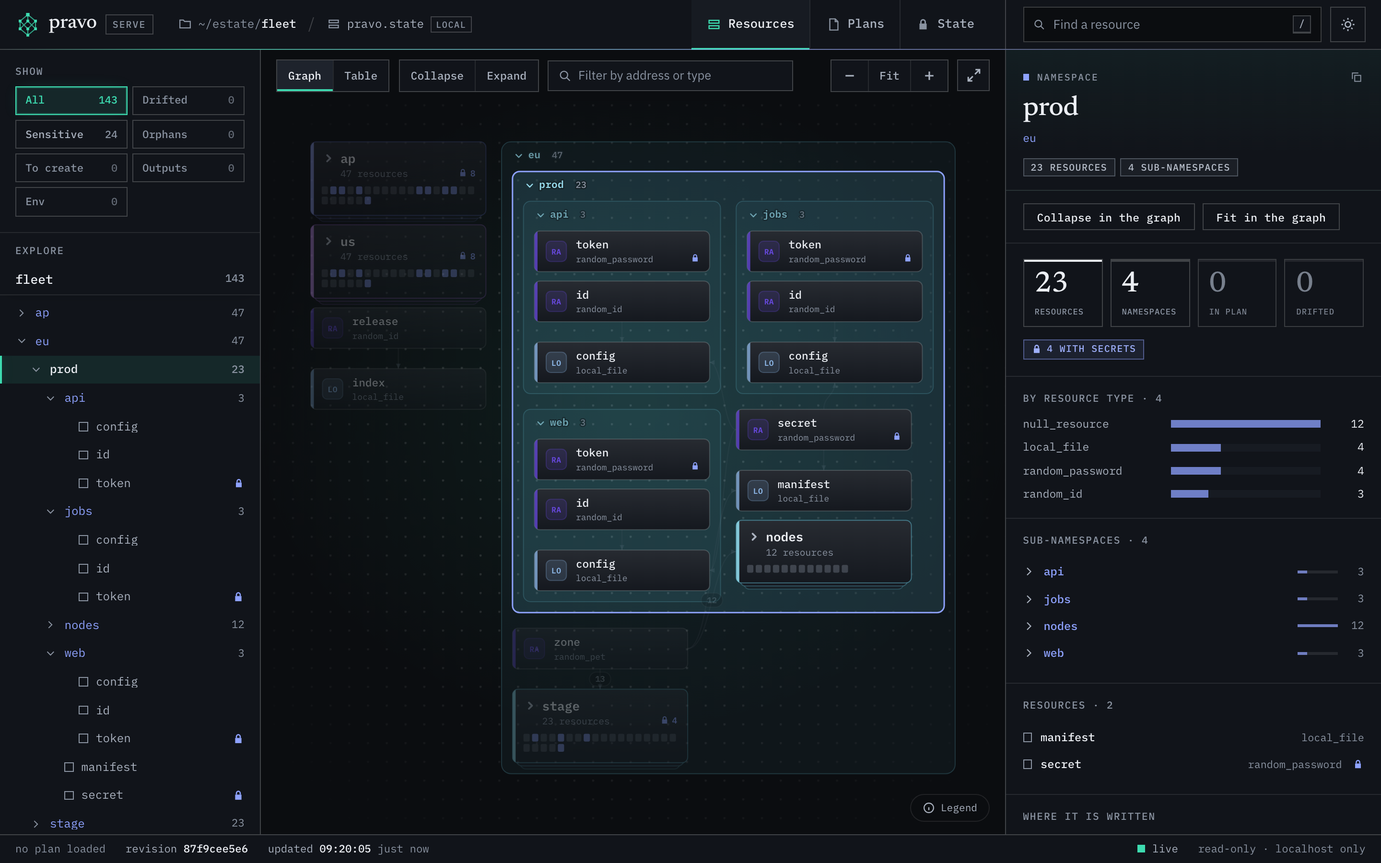
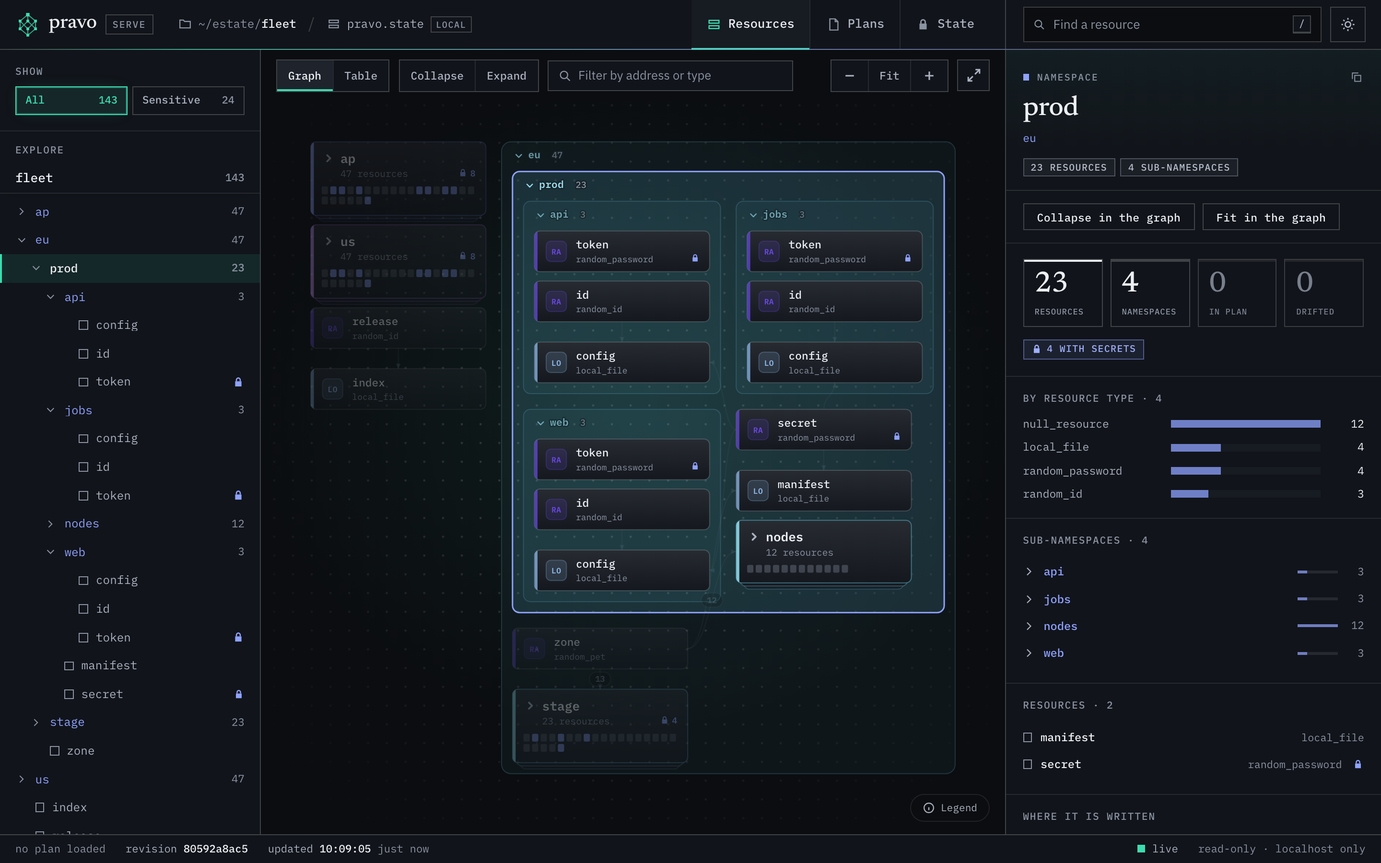
viewer: mark data sources and ephemeral resources, and filter by kind
A data source has a round tile in the graph and a round mark in the sidebar, the search and the table; an ephemeral resource has a dashed tile and a dashed mark. The legend names them when the graph has one. The Show chips gain Resources, Data sources and Ephemeral (filter=resources, data, ephemeral); Resources shows only beside another kind.

Also: the chips that match nothing are hidden, the Sensitive chip counts outputs too, the legend lists only the marks the graph shows, and the disc of a plan author opens that plan on the Plans page. The documentation and the screenshots follow.

diff --git a/internal/serve/web/assets/graph.js b/internal/serve/web/assets/graph.js
@@ -547,7 +547,7 @@ export class GraphView {
     inn.append(s('rect', { class: 'box', width: W, height: H, rx: 7 }));
     inn.append(s('rect', { class: 'bar', width: 4, height: H, 'clip-path': this.clip(W, H, 7) }));
     const tile = s('g', { class: 'tile', transform: `translate(15 ${(H - 26) / 2})` });
-    tile.append(s('rect', { class: 'tb', width: 26, height: 26, rx: 6 }), isEnv(n) ? glyph('env', 5, 5, 16, 'mk mk-env') : s('text', { class: 'tm', x: 13, y: 17.2 }, pv.mono));
+    tile.append(s('rect', { class: 'tb', width: 26, height: 26, rx: n.mode === 'data' ? 13 : 6 }), isEnv(n) ? glyph('env', 5, 5, 16, 'mk mk-env') : s('text', { class: 'tm', x: 13, y: 17.2 }, pv.mono));
     inn.append(tile);
     const nameRoom = W - 52 - (badge ? 34 : 14);
     inn.append(s('text', { class: 'nm', x: 53, y: 22.5 }, trunc(n.name, chars(nameRoom, 14))));
@@ -573,7 +573,7 @@ export class GraphView {
     const g = s('g', { class: 'aus' });
     const SHOWN = 3, R = 7.5, PITCH = 11;
     list.slice(0, SHOWN).forEach((p, i) => {
-      const b = s('g', { class: 'au au' + hueOf(p.author), transform: `translate(${W - 15 - i * PITCH} 0)` });
+      const b = s('g', { class: 'au au' + hueOf(p.author), 'data-plan': p.id, transform: `translate(${W - 15 - i * PITCH} 0)` });
       b.append(s('circle', { class: 'aur', r: R + 1.6 }), s('circle', { class: 'aub', r: R }), s('text', { y: 2.7 }, initials(p.author).slice(0, 2)));
       g.append(b);
     });
@@ -956,7 +956,7 @@ export class GraphView {
     if (n.overlap) chips.push(h('span', { class: 'gchip ovl' }, 'overlap'));
     if (chips.length) out.push(h('div', { class: 'gtip-row' }, chips));
     const authors = authorsOf(n, this.ctx);
-    if (authors.length) out.push(h('div', { class: 'gtip-plans' }, authors.map((p) => h('div', null, h('span', { class: 'au au' + hueOf(p.author) }, initials(p.author)), ` ${p.author} · ${p.id}`))));
+    if (authors.length) out.push(h('div', { class: 'gtip-plans' }, authors.map((p) => h('div', null, h('span', { class: 'au au' + hueOf(p.author) }, initials(p.author)), ` ${p.author} · ${p.id}`)), h('div', { class: 'dim' }, 'Click a disc to open its plan')));
     out.push(h('div', { class: 'gtip-meta' }, isO ? `reads ${n.deps.length} · read by ${n.used.length}` : `${n.deps.length} ${n.deps.length === 1 ? 'dependency' : 'dependencies'} · ${n.used.length} ${n.used.length === 1 ? 'dependent' : 'dependents'}`));
     return out;
   }
@@ -965,7 +965,7 @@ export class GraphView {
   tipPlans(out, pin) {
     if (!pin.list.length) return;
     out.push(h('div', { class: 'gtip-plans' }, pin.list.map((p) => h('div', null, h('span', { class: 'au au' + hueOf(p.author) }, initials(p.author)), ` ${p.author} \u00b7 ${p.id}`)),
-      h('div', { class: 'dim' }, `${plural(pin.resources, 'resource')} changed by open plans${pin.overlap ? ', two of them by more than one' : ''}`)));
+      h('div', { class: 'dim' }, `${plural(pin.resources, 'resource')} changed by open plans${pin.overlap ? ', two of them by more than one' : ''}`), h('div', { class: 'dim' }, 'Click a disc to open its plan')));
   }
 
   tipNamespace(ns, open) {
@@ -1248,6 +1248,9 @@ export class GraphView {
 
   click(target, ev) {
     if (performance.now() < this.guardUntil) return;
+    // a disc of an author is a way into the plan that it stands for
+    const disc = target.closest && target.closest('[data-plan]');
+    if (disc) { this.cb.onPlan(disc.dataset.plan); return; }
     const act = target.closest && target.closest('[data-act]');
     const el = target.closest && target.closest('[data-id]');
     if (act && el) {

diff --git a/internal/serve/web/assets/app.js b/internal/serve/web/assets/app.js
@@ -840,6 +840,13 @@ function setView(v) {
   announce(v === 'table' ? 'Resources, table view' : v === 'access' ? 'State' : v === 'plans' ? 'Plans' : 'Resources, graph view');
 }
 
+// openPlan goes to the Plans page with the detail of a plan open under its row.
+function openPlan(id) {
+  if (!S.plans.some((p) => p.id === id)) { toast(`${id} is not stored any more`, 'warn', 6000); return; }
+  plansList.reveal(id);
+  setView('plans');
+}
+
 function renderAccess() {
   accessView.render({ access: S.access, project: S.model && S.model.graph ? S.model.graph.project : null });
 }
@@ -983,14 +990,19 @@ function renderLegend() {
   const item = (...k) => h('span', { class: 'lg' }, ...k);
   const sel = (...k) => h('span', { class: 'lg lg-sel' }, ...k); // the keys of the edges show once something is selected
   if (m.hasPlan) {
-    el.append(item(sq('create'), 'create'), item(sq('update'), 'update'), item(sq('replace'), 'replace'), item(sq('delete'), 'delete'), item(h('i', { class: 'sq skip' }), 'not read'));
+    // only the actions that the plan has on a resource of the graph
+    const acts = new Set(m.list.map((n) => n.action));
+    for (const a of ['create', 'update', 'replace', 'delete']) if (acts.has(a)) el.append(item(sq(a), a));
+    if (m.list.some((n) => !n.action && n.mode !== 'output')) el.append(item(h('i', { class: 'sq skip' }), 'not read'));
   }
   el.append(
     sel(h('i', { class: 'ln up' }), 'depends on'), sel(h('i', { class: 'ln down' }), 'used by'),
     ...(m.nout ? [item(h('span', { class: 'i i-output key' }), 'output')] : []),
     ...(m.list.some(isEnv) ? [item(h('span', { class: 'i i-env key' }), 'environment variable')] : []),
-    item(h('span', { class: 'i i-lock key' }), 'sensitive'),
-    item(h('span', { class: 'i i-drift warn' }), 'drifted'));
+    ...(m.list.some((n) => n.mode === 'data') ? [item(h('i', { class: 'sq k-data' }), 'data source')] : []),
+    ...(m.list.some((n) => n.mode === 'ephemeral') ? [item(h('i', { class: 'sq k-ephemeral' }), 'ephemeral')] : []),
+    ...(m.list.some((n) => n.sensitive > 0) ? [item(h('span', { class: 'i i-lock key' }), 'sensitive')] : []),
+    ...(m.list.some((n) => n.drifted) ? [item(h('span', { class: 'i i-drift warn' }), 'drifted')] : []));
   // the badges of the authors of open plans, and the ring of a resource that two of them change
   if (m.list.some((n) => (n.plans || []).length)) el.append(item(avatar('author', 'tiny'), 'plan author'));
   if (m.list.some((n) => n.overlap)) el.append(item(h('i', { class: 'ringkey' }), 'overlap'));
@@ -1291,6 +1303,7 @@ function wire() {
     onSelectNamespace: (p) => selectNamespace(p),
     onToggleNamespace: toggleNamespace,
     onOpenNamespace: openNamespace,
+    onPlan: openPlan,
     onCluster: clusterAction,
     onClear: clearSelection,
     onView: () => minimapDraw(),

diff --git a/internal/serve/web/assets/table.js b/internal/serve/web/assets/table.js
@@ -1,7 +1,7 @@
 // The table view: a dense, searchable, sortable table of every node, with the same filters as the rail.
 // Only the rows in view are in the document, so an estate of thousands of resources scrolls freely.
 
-import { h, clear, relTime, stamp, actionOf, store } from './util.js';
+import { h, clear, relTime, stamp, actionOf, store, kindMark } from './util.js';
 import { FILTERS, natural, isOut, isEnv } from './model.js';
 import { providerOf, pvClass } from './provider.js';
 
@@ -128,10 +128,10 @@ export class TableView {
     // a plan lists the value of every output and does not say which it changes: an output is neither planned nor "not read"
     const act = a ? h('span', { class: 'act' }, h('span', { class: 'sq ' + a.cls }), a.label) : (this.s.model.hasPlan && !isOut(n) ? h('span', { class: 'dim' }, 'not read') : '');
     return h('div', { class: 'tv-row' + (on ? ' sel' : ''), role: 'row', 'aria-rowindex': String(i + 2), 'aria-selected': on ? 'true' : 'false', data: { addr: n.addr } },
-      h('div', { class: 'c-addr' + (isOut(n) ? ' out' : ''), role: 'gridcell', title: n.addr }, isOut(n) ? h('span', { class: 'i i-output omark', 'aria-hidden': 'true' }) : isEnv(n) ? h('span', { class: 'i i-env omark', 'aria-hidden': 'true' }) : null, n.addr.length > n.name.length && n.addr.endsWith(n.name) ? [h('span', { class: 'pre' }, n.addr.slice(0, n.addr.length - n.name.length)), h('b', null, n.name)] : n.addr),
+      h('div', { class: 'c-addr' + (isOut(n) ? ' out' : ''), role: 'gridcell', title: n.addr }, isOut(n) ? h('span', { class: 'i i-output omark', 'aria-hidden': 'true' }) : isEnv(n) ? h('span', { class: 'i i-env omark', 'aria-hidden': 'true' }) : kindMark(n), n.addr.length > n.name.length && n.addr.endsWith(n.name) ? [h('span', { class: 'pre' }, n.addr.slice(0, n.addr.length - n.name.length)), h('b', null, n.name)] : n.addr),
       h('div', { class: 'c-type', role: 'gridcell', title: n.type }, n.type),
       h('div', { class: 'c-prov', role: 'gridcell', title: n.provider ? 'The provider instance: ' + n.provider : '' }, n.provider ? [h('span', { class: 'pvdot ' + pvClass(providerOf(n.type, n.provider)), 'aria-hidden': 'true' }), n.provider] : h('span', { class: 'dim' }, '—')),
-      h('div', { class: 'c-mode', role: 'gridcell' }, n.mode),
+      h('div', { class: 'c-mode' + (n.mode === 'managed' ? ' plain' : ''), role: 'gridcell' }, n.mode),
       h('div', { class: 'c-status', role: 'gridcell' }, stat),
       h('div', { class: 'c-action', role: 'gridcell' }, act),
       h('div', { class: 'c-rev num', role: 'gridcell' }, n.revision ? String(n.revision) : '—'),

diff --git a/internal/serve/web/assets/rail.js b/internal/serve/web/assets/rail.js
@@ -12,9 +12,12 @@ const ANIMATE_MAX = 40;
 
 export const CHIPS = [
   { key: null, label: 'All', count: 'all', hint: 'Every resource' },
+  { key: 'resources', label: 'Resources', count: 'resources', hint: 'The managed resources, without the data sources and the ephemeral ones', kinds: true },
+  { key: 'data', label: 'Data sources', count: 'data', hint: 'Data sources: values read, not created' },
+  { key: 'ephemeral', label: 'Ephemeral', count: 'ephemeral', hint: 'Ephemeral resources: opened for a run and never recorded' },
   { key: 'plan', label: 'In plan', count: 'plan', hint: 'Resources the plan that is laid over them changes', plan: true },
   { key: 'drifted', label: 'Drifted', count: 'drifted', hint: 'Resources that differ from the real object, or are gone' },
-  { key: 'sensitive', label: 'Sensitive', count: 'sensitive', hint: 'Resources with values that are withheld' },
+  { key: 'sensitive', label: 'Sensitive', count: 'sensitive', hint: 'Resources and outputs with values that are withheld' },
   { key: 'orphans', label: 'Orphans', count: 'orphans', hint: 'In the state, no longer declared' },
   { key: 'declared', label: 'To create', count: 'declared', hint: 'In the specification and not in the state: nothing has created them yet' },
   { key: 'outputs', label: 'Outputs', count: 'outputs', hint: 'The values the root publishes' },
@@ -72,7 +75,10 @@ export class Rail {
       const { b, em } = this.chips.get(c.key || '');
       const on = (s.filter || null) === c.key;
       b.setAttribute('aria-pressed', on ? 'true' : 'false');
-      b.hidden = !!c.plan && !model.hasPlan; // a filter of the plan has no use while none is laid over the resources
+      // a filter of the plan has no use while none is laid over the resources, and one that matches nothing is not offered,
+      // unless it is the one that is on or the records are sealed and cannot say
+      // Resources is there only beside another kind: alone it would be All
+      b.hidden = (!!c.plan && !model.hasPlan) || (!!c.kinds && !on && model.counts.data + model.counts.ephemeral === 0) || (n === 0 && !!c.key && !on && !notCounted(model.counts, c.count));
       b.classList.toggle('zero', n === 0 && !!c.key);
       if (notCounted(model.counts, c.count)) {
         // the records are sealed and say nothing of this: a dash, not a zero

diff --git a/internal/serve/web/assets/model.js b/internal/serve/web/assets/model.js
@@ -22,11 +22,14 @@ export const isChange = (a) => CHANGING.has(a);
 // n counts the resources of a namespace, out its outputs
 const zero = () => ({ n: 0, out: 0, plan: 0, create: 0, update: 0, replace: 0, delete: 0, read: 0, drifted: 0, gone: 0, sensitive: 0, locked: 0, orphan: 0, spec: 0 });
 
-// FILTERS match a node; the key is the value of filter= in the fragment. All but outputs match resources only.
+// FILTERS match a node; the key is the value of filter= in the fragment. The outputs chip and the sensitive one match outputs; the others match resources only.
 export const FILTERS = {
+  resources: (n) => n.mode === 'managed',
+  data: (n) => n.mode === 'data',
+  ephemeral: (n) => n.mode === 'ephemeral',
   plan: (n) => !isOut(n) && !!n.action && n.action !== 'no-op',
   drifted: (n) => !isOut(n) && !!(n.drifted || n.gone),
-  sensitive: (n) => !isOut(n) && n.sensitive > 0,
+  sensitive: (n) => n.sensitive > 0,
   orphans: (n) => !isOut(n) && n.presence === 'state',
   declared: (n) => !isOut(n) && n.presence === 'spec',
   outputs: (n) => isOut(n),
@@ -85,7 +88,7 @@ export function buildModel(graph, plans) {
   const nout = list.filter(isOut).length;
   const nenv = list.filter((n) => !isOut(n) && isEnv(n)).length;
   // All is the resources: what the state records and what a plan counts. Outputs and environment variables are not resources, and their chips count them.
-  const counts = { all: list.length - nout - nenv, plan: 0, drifted: 0, sensitive: 0, orphans: 0, declared: 0, outputs: 0, env: 0, sealed: 0 };
+  const counts = { all: list.length - nout - nenv, resources: 0, data: 0, ephemeral: 0, plan: 0, drifted: 0, sensitive: 0, orphans: 0, declared: 0, outputs: 0, env: 0, sealed: 0 };
   for (const n of list) {
     for (const k of Object.keys(FILTERS)) if (FILTERS[k](n)) counts[k]++;
     if (n.sealed) counts.sealed++;

diff --git a/internal/serve/web/assets/util.js b/internal/serve/web/assets/util.js
@@ -160,11 +160,16 @@ export const actionOf = (a) => ACTIONS[a] || null;
 
 // nodeMark is the small figure before a node in a list: the square of its plan action, or, for an output, the
 // glyph of a value that leaves the root. An output has no action, and a plan never "does not read" it.
+export const KINDS = { data: 'data source', ephemeral: 'ephemeral resource' };
+export const kindClass = (n) => (KINDS[n.mode] ? ' k-' + n.mode : '');
+// kindMark is the small figure of a node that is not a managed resource, for a list without the plan's square: a circle
+// for a data source, a dashed square for an ephemeral resource. A managed resource, the plain case, has none.
+export const kindMark = (n) => (KINDS[n.mode] ? h('i', { class: 'sq kmark' + kindClass(n), title: KINDS[n.mode], 'aria-hidden': 'true' }) : null);
 export function nodeMark(n, hasPlan) {
   if (n.mode === 'output') return h('span', { class: 'i i-output omark', 'aria-hidden': 'true' });
   if (n.type === 'env' || n.type === 'secret_env') return h('span', { class: 'i i-env omark', 'aria-hidden': 'true' });
   const act = actionOf(n.action);
-  return h('i', { class: 'sq' + (act ? ' ' + act.cls : '') + (hasPlan && !n.action ? ' skip' : '') });
+  return h('i', { class: 'sq' + kindClass(n) + (act ? ' ' + act.cls : '') + (hasPlan && !n.action ? ' skip' : '') });
 }
 
 // ---- motion ----

diff --git a/internal/serve/web/assets/graph.css b/internal/serve/web/assets/graph.css
@@ -130,7 +130,7 @@
 .node .bar, .ns-item .bar, .cluster-item .bar { fill: hsl(var(--pvh, var(--th)) var(--pv-s) var(--pv-l) / .75); }
 .node .tb { fill: hsl(var(--pvh) var(--pv-s) var(--pv-l) / var(--pv-a)); stroke: hsl(var(--pvh) var(--pv-s) var(--pv-l) / .28); stroke-width: 1; vector-effect: non-scaling-stroke; }
 .node .tm { font: 600 10px var(--font-mono); text-anchor: middle; fill: hsl(var(--pvh) var(--pv-s) var(--pv-l)); letter-spacing: .02em; opacity: var(--sub); }
-.node.m-data .tb { stroke-dasharray: 2 2; }
+.node.m-ephemeral .tb { stroke-dasharray: 3 2.5; stroke: hsl(var(--pvh) var(--pv-s) var(--pv-l) / .75); fill: hsl(var(--pvh) var(--pv-s) var(--pv-l) / calc(var(--pv-a) * .4)); }
 .node .tile, .node .act, .ns-item .pb, .cluster-item .pb, .ns-item .cico, .cluster-item .cico { opacity: var(--lab); transition: opacity .2s; }
 .node.m-data .box { fill: color-mix(in srgb, var(--g-card) 70%, var(--bg)); }
 .node.drifted .bar { fill: var(--change); } .node.gone .bar, .node.orphan .bar { fill: var(--conflict); }

diff --git a/internal/serve/web/assets/app.css b/internal/serve/web/assets/app.css
@@ -228,6 +228,11 @@ a { color: inherit; }
 .rail-empty { margin: 1rem; color: var(--text-3); font-size: .8rem; }
 i.sq, span.sq { display: inline-block; width: .6rem; height: .6rem; border: 1.5px solid var(--text-3); flex: none; }
 i.sq.skip, span.sq.skip { opacity: .45; }
+/* the kind of a node, by the shape of its square: a circle reads a data source, a dashed edge an ephemeral resource */
+i.sq.k-data, span.sq.k-data { border-radius: 50%; }
+i.sq.k-ephemeral, span.sq.k-ephemeral { border-style: dashed; }
+.tv-row .c-addr .kmark { margin: .22rem .55rem 0 .05rem; }
+.tv-row .c-mode.plain { color: var(--text-3); }
 /* an output in a list stands where a resource has its square: the glyph of a value that leaves the root */
 .i.omark { color: var(--key); width: .78rem; height: .78rem; flex: none; margin-left: -.09rem; margin-right: -.09rem; }
 .row .mout { display: inline-flex; align-items: center; gap: .15rem; color: var(--key); font: 500 .62rem/1 var(--font-mono); }

diff --git a/internal/serve/web/assets/plans.css b/internal/serve/web/assets/plans.css
@@ -109,6 +109,8 @@ span.au.tiny { min-width: 1rem; height: 1rem; padding: 0 .1rem; font-size: .5rem
 /* ---- the bar on the canvas: which plan is laid over the graph, and the way back ---- */
 /* ---- on the graph ---- */
 :is(.node, .ns-item, .cluster-item) .aus { pointer-events: none; }
+:is(.node, .ns-item, .cluster-item) .aus .au { pointer-events: all; cursor: pointer; }
+:is(.node, .ns-item, .cluster-item) .aus .au:hover .aub { stroke-width: 2; stroke: hsl(var(--auh) var(--pv-s) var(--pv-l)); }
 :is(.node, .ns-item, .cluster-item) .au { --auh: var(--pvh0); }
 :is(.node, .ns-item, .cluster-item) .au1 { --auh: var(--pvh1); } :is(.node, .ns-item, .cluster-item) .au2 { --auh: var(--pvh2); } :is(.node, .ns-item, .cluster-item) .au3 { --auh: var(--pvh3); } :is(.node, .ns-item, .cluster-item) .au4 { --auh: var(--pvh4); } :is(.node, .ns-item, .cluster-item) .au5 { --auh: var(--pvh5); }
 :is(.node, .ns-item, .cluster-item) .au .aur { fill: var(--bg); }

diff --git a/internal/serve/web/assets/plans.js b/internal/serve/web/assets/plans.js
@@ -192,6 +192,12 @@ export class Plans {
     this.render(this.s);
   }
 
+  // reveal opens the detail of a plan under its row, for a link from another part of the page
+  reveal(id) {
+    this.open = id;
+    if (this.s) this.render(this.s);
+  }
+
   mode(plans, sel) {
     if (this.filter) return this.filter;
     const picked = sel && plans.find((p) => p.id === sel);

diff --git a/docs/how-to/explore-your-estate.md b/docs/how-to/explore-your-estate.md
@@ -41,7 +41,7 @@ The graph has one box for each resource and one lane for each open namespace. A 
 
 An output of the root is drawn as a card like a resource: an arrow that leaves a door in the tile, the name, the word output under it, and a lock when the value is withheld. It sits in the namespace that holds it, and arrows run into it from the resources and the other outputs that its value reads. Select a resource, and the outputs that read it stay bright with the rest of its dependents. An output is not a resource, so it is not in the count that a namespace or a chip shows.
 
-The legend at the foot of the graph names the colours of the actions when a plan is loaded, the two kinds of line, the lock of a sensitive value and the mark of a drifted one. The toolbar above the graph says how many boxes it draws when that differs from the number of resources. Drag to move the picture, turn the wheel or pinch to zoom, and use the minus, Fit and plus buttons for the same. When the drawing is larger than the window, a small map appears in the corner: click or drag in it to move.
+The legend at the foot of the graph names only the marks that the graph shows: the colours of the actions that a loaded plan has, the two kinds of line, the lock of a sensitive value and the mark of a drifted one. The toolbar above the graph says how many boxes it draws when that differs from the number of resources. Drag to move the picture, turn the wheel or pinch to zoom, and use the minus, Fit and plus buttons for the same. When the drawing is larger than the window, a small map appears in the corner: click or drag in it to move.
 
 The inspector heads with the name of the resource, the namespaces that it sits in, each a link, its type and its provider. A strip under the head has the cells Record, Revision and Refreshed, Lock when a lock holds the resource, and Plan when a plan is loaded. The Record cell says `in sync`, `drifted`, `gone`, `declared only` or `orphan`. The tabs are State, Source, Schema and History, and Change when a plan is loaded. For an output the head says Output, the strip has the cells Value and Record, and the tabs are State and Source: the State tab shows the description, the value or a locked mark where the value is withheld, what the output reads and the outputs that read it.
 
@@ -59,7 +59,7 @@ Press `/`, or Ctrl-K or Cmd-K, to open the palette, or choose the search button 
 <a class="shot" href="../img/serve/palette-dark.png"><img src="../img/serve/palette-dark.png" width="1440" height="900" alt="The viewer with the search palette open over the graph. The query billing finds one namespace, api.services.billing with 5 resources, and six resources: edge.routes.billing and the five resources of api.services.billing." loading="lazy"></a>
 :::
 
-The box above the graph, Filter by address or type, narrows what the graph and the table show to the matches, and says how many it found. The chips under Show filter by what the viewer knows about a resource: All, In plan, Drifted, Sensitive, Orphans, To create, Outputs and Env. In plan is there only while a plan is laid over the graph, and counts the resources that it changes. Drifted counts the drifted and the gone. Sensitive counts the resources that hold withheld values, Orphans the resources that are recorded and not declared, and To create the resources that are declared and not recorded yet. Outputs counts the outputs of the root and shows them alone, Env counts the environment variables that the specification reads, and every other chip counts resources only. Each chip carries the number that it matches, and a chip that matches none is dimmed. Choose a chip, and the sidebar lists only the matches, with the namespaces that hold them open, while the graph dims the rest.
+The box above the graph, Filter by address or type, narrows what the graph and the table show to the matches, and says how many it found. The chips under Show filter by what the viewer knows about a resource: All, Resources, Data sources, Ephemeral, In plan, Drifted, Sensitive, Orphans, To create, Outputs and Env. Resources, Data sources and Ephemeral split the estate by kind, and Resources is there only when one of the other two is. In plan is there only while a plan is laid over the graph, and counts the resources that it changes. Drifted counts the drifted and the gone. Sensitive counts the resources and the outputs that hold withheld values, Orphans the resources that are recorded and not declared, and To create the resources that are declared and not recorded yet. Outputs counts the outputs of the root and shows them alone, Env counts the environment variables that the specification reads, and every other chip counts resources only. Each chip carries the number that it matches, and a chip that matches none is not shown, unless it is the one that is on. Choose a chip, and the sidebar lists only the matches, with the namespaces that hold them open, while the graph dims the rest.
 
 ## 4. Open and close namespaces
 
@@ -200,7 +200,7 @@ Click a row to open it. It shows the reason, what overlaps, when the plan expire
 <a class="shot shot-light" href="../img/serve/plans-light.png"><img src="../img/serve/plans-light.png" width="1440" height="900" alt="The viewer with a stored plan laid over the graph. A strip under the bar names the plan: the badge A, the note move orders to port 9082, the id, the chip pending, the counts +3 and −3, ana and the age, a ring for the time that is left and a cross at the right. The graph shows config and deploy of orders with the action replace, each with the discs A and B and a ring where the two plans overlap. The inspector shows the Change tab of config: replace, the reasons and the content that changes." loading="lazy"></a>
 :::
 
-Look for the discs before you apply. Each disc on a resource is the initial of the author of a plan that can be applied and changes it. A resource with two discs and a ring is one that two people have planned and not applied. A plan that has applied its change on a resource has no disc there. Applying one of the plans makes the other stale, or partly stale when its other changes can still be applied, because the resource is then at another revision. The Plans cell of the resource, above the tabs, lists the plans, and a click on a disc lays that plan over the graph. The legend names `plan author` and `overlap`.
+Look for the discs before you apply. Each disc on a resource is the initial of the author of a plan that can be applied and changes it. Click a disc to go to the Plans page with that plan open under its row. A resource with two discs and a ring is one that two people have planned and not applied. A plan that has applied its change on a resource has no disc there. Applying one of the plans makes the other stale, or partly stale when its other changes can still be applied, because the resource is then at another revision. The Plans cell of the resource, above the tabs, lists the plans, and a click on a disc lays that plan over the graph. The legend names `plan author` and `overlap`.
 
 A chip that says `partly stale` marks a plan that the state moved on under in some of its changes. The row lists the conflicts, one reason each, and the command that ends in `--only` with the changes that can still be applied. Copy that command, and not `pravo apply ID`, which the whole plan is refused by. A resource whose change conflicts keeps the disc of the plan and draws no ring. The Plans cell says that the plan cannot apply the change, and the Change tab gives the reason.
 
@@ -254,7 +254,7 @@ A link reproduces the view on a viewer that shows the same estate. The fragment 
 
 The theme button in the bar, or `t`, switches between the light and the dark theme. Without a `theme` parameter the viewer follows the system and the last choice that you made in the page.
 
-The Table button of the toolbar switches from the graph to a table, and `g` switches between the two. The table has a row for each resource and each output, and the columns Address, Type, Provider, Mode, Status, Plan, Rev and Refreshed. The Mode of an output is `output`. The Plan column shows what the loaded plan does to the resource, and it is left out when no plan is loaded. The address starts with the namespace, so there is no column for it. Provider is the provider instance that the resource uses, such as `aws` or `aws.west`. The graph and the table colour each instance, in the tile of a card and in the dot in front of the name: the instances of one estate get different colours, up to twelve of them, and the same instance has the same colour in both. A narrow table leaves out Mode and Rev. Click a heading to sort by it, and click it again to reverse the order. The up and down arrows move the selection. The filters apply to the table as they do to the graph, and the filter box also matches the action and the mode.
+The Table button of the toolbar switches from the graph to a table, and `g` switches between the two. The table has a row for each resource and each output, and the columns Address, Type, Provider, Mode, Status, Plan, Rev and Refreshed. The Mode of an output is `output`. A data source has a round mark before its address and an ephemeral resource a dashed one, so the kind reads even when the narrow table leaves out Mode. The Plan column shows what the loaded plan does to the resource, and it is left out when no plan is loaded. The address starts with the namespace, so there is no column for it. Provider is the provider instance that the resource uses, such as `aws` or `aws.west`. The graph and the table colour each instance, in the tile of a card and in the dot in front of the name: the instances of one estate get different colours, up to twelve of them, and the same instance has the same colour in both. A narrow table leaves out Mode and Rev. Click a heading to sort by it, and click it again to reverse the order. The up and down arrows move the selection. The filters apply to the table as they do to the graph, and the filter box also matches the action and the mode.
 
 :::figure The Table view of the same estate: one row for each resource. The statuses show `gone` for `api.cache.config` and `orphan` for `edge.balancer.reload`.
 <a class="shot" href="../img/serve/table-dark.png"><img src="../img/serve/table-dark.png" width="1440" height="900" alt="The viewer in the Table view. A table lists the resources with the columns Address, Type, Provider, Status and Refreshed. The Provider column names the provider instance of each resource, here local, null and random. The Status column shows the number of sensitive values, the mark gone and the mark orphan. The inspector shows the selected resource." loading="lazy"></a>

diff --git a/skills/pravo/references/how-to/explore-your-estate.md b/skills/pravo/references/how-to/explore-your-estate.md
@@ -32,7 +32,7 @@ The graph has one box for each resource and one lane for each open namespace. A 
 
 An output of the root is drawn as a card like a resource: an arrow that leaves a door in the tile, the name, the word output under it, and a lock when the value is withheld. It sits in the namespace that holds it, and arrows run into it from the resources and the other outputs that its value reads. Select a resource, and the outputs that read it stay bright with the rest of its dependents. An output is not a resource, so it is not in the count that a namespace or a chip shows.
 
-The legend at the foot of the graph names the colours of the actions when a plan is loaded, the two kinds of line, the lock of a sensitive value and the mark of a drifted one. The toolbar above the graph says how many boxes it draws when that differs from the number of resources. Drag to move the picture, turn the wheel or pinch to zoom, and use the minus, Fit and plus buttons for the same. When the drawing is larger than the window, a small map appears in the corner: click or drag in it to move.
+The legend at the foot of the graph names only the marks that the graph shows: the colours of the actions that a loaded plan has, the two kinds of line, the lock of a sensitive value and the mark of a drifted one. The toolbar above the graph says how many boxes it draws when that differs from the number of resources. Drag to move the picture, turn the wheel or pinch to zoom, and use the minus, Fit and plus buttons for the same. When the drawing is larger than the window, a small map appears in the corner: click or drag in it to move.
 
 The inspector heads with the name of the resource, the namespaces that it sits in, each a link, its type and its provider. A strip under the head has the cells Record, Revision and Refreshed, Lock when a lock holds the resource, and Plan when a plan is loaded. The Record cell says `in sync`, `drifted`, `gone`, `declared only` or `orphan`. The tabs are State, Source, Schema and History, and Change when a plan is loaded. For an output the head says Output, the strip has the cells Value and Record, and the tabs are State and Source: the State tab shows the description, the value or a locked mark where the value is withheld, what the output reads and the outputs that read it.
 
@@ -48,7 +48,7 @@ Press `/`, or Ctrl-K or Cmd-K, to open the palette, or choose the search button 
 
 *Figure: The palette with the query billing. It lists the namespace api.services.billing and the six resources whose addresses contain the word.*
 
-The box above the graph, Filter by address or type, narrows what the graph and the table show to the matches, and says how many it found. The chips under Show filter by what the viewer knows about a resource: All, In plan, Drifted, Sensitive, Orphans, To create, Outputs and Env. In plan is there only while a plan is laid over the graph, and counts the resources that it changes. Drifted counts the drifted and the gone. Sensitive counts the resources that hold withheld values, Orphans the resources that are recorded and not declared, and To create the resources that are declared and not recorded yet. Outputs counts the outputs of the root and shows them alone, Env counts the environment variables that the specification reads, and every other chip counts resources only. Each chip carries the number that it matches, and a chip that matches none is dimmed. Choose a chip, and the sidebar lists only the matches, with the namespaces that hold them open, while the graph dims the rest.
+The box above the graph, Filter by address or type, narrows what the graph and the table show to the matches, and says how many it found. The chips under Show filter by what the viewer knows about a resource: All, Resources, Data sources, Ephemeral, In plan, Drifted, Sensitive, Orphans, To create, Outputs and Env. Resources, Data sources and Ephemeral split the estate by kind, and Resources is there only when one of the other two is. In plan is there only while a plan is laid over the graph, and counts the resources that it changes. Drifted counts the drifted and the gone. Sensitive counts the resources and the outputs that hold withheld values, Orphans the resources that are recorded and not declared, and To create the resources that are declared and not recorded yet. Outputs counts the outputs of the root and shows them alone, Env counts the environment variables that the specification reads, and every other chip counts resources only. Each chip carries the number that it matches, and a chip that matches none is not shown, unless it is the one that is on. Choose a chip, and the sidebar lists only the matches, with the namespaces that hold them open, while the graph dims the rest.
 
 ## 4. Open and close namespaces
 
@@ -169,7 +169,7 @@ Click a row to open it. It shows the reason, what overlaps, when the plan expire
 
 *Figure: The platform with the plan of ana laid over the graph. The plan of ben also replaces what writes orders, so those resources carry two discs and a ring, and the strip under the bar names the plan that is laid over them.*
 
-Look for the discs before you apply. Each disc on a resource is the initial of the author of a plan that can be applied and changes it. A resource with two discs and a ring is one that two people have planned and not applied. A plan that has applied its change on a resource has no disc there. Applying one of the plans makes the other stale, or partly stale when its other changes can still be applied, because the resource is then at another revision. The Plans cell of the resource, above the tabs, lists the plans, and a click on a disc lays that plan over the graph. The legend names `plan author` and `overlap`.
+Look for the discs before you apply. Each disc on a resource is the initial of the author of a plan that can be applied and changes it. Click a disc to go to the Plans page with that plan open under its row. A resource with two discs and a ring is one that two people have planned and not applied. A plan that has applied its change on a resource has no disc there. Applying one of the plans makes the other stale, or partly stale when its other changes can still be applied, because the resource is then at another revision. The Plans cell of the resource, above the tabs, lists the plans, and a click on a disc lays that plan over the graph. The legend names `plan author` and `overlap`.
 
 A chip that says `partly stale` marks a plan that the state moved on under in some of its changes. The row lists the conflicts, one reason each, and the command that ends in `--only` with the changes that can still be applied. Copy that command, and not `pravo apply ID`, which the whole plan is refused by. A resource whose change conflicts keeps the disc of the plan and draws no ring. The Plans cell says that the plan cannot apply the change, and the Change tab gives the reason.
 
@@ -217,7 +217,7 @@ A link reproduces the view on a viewer that shows the same estate. The fragment 
 
 The theme button in the bar, or `t`, switches between the light and the dark theme. Without a `theme` parameter the viewer follows the system and the last choice that you made in the page.
 
-The Table button of the toolbar switches from the graph to a table, and `g` switches between the two. The table has a row for each resource and each output, and the columns Address, Type, Provider, Mode, Status, Plan, Rev and Refreshed. The Mode of an output is `output`. The Plan column shows what the loaded plan does to the resource, and it is left out when no plan is loaded. The address starts with the namespace, so there is no column for it. Provider is the provider instance that the resource uses, such as `aws` or `aws.west`. The graph and the table colour each instance, in the tile of a card and in the dot in front of the name: the instances of one estate get different colours, up to twelve of them, and the same instance has the same colour in both. A narrow table leaves out Mode and Rev. Click a heading to sort by it, and click it again to reverse the order. The up and down arrows move the selection. The filters apply to the table as they do to the graph, and the filter box also matches the action and the mode.
+The Table button of the toolbar switches from the graph to a table, and `g` switches between the two. The table has a row for each resource and each output, and the columns Address, Type, Provider, Mode, Status, Plan, Rev and Refreshed. The Mode of an output is `output`. A data source has a round mark before its address and an ephemeral resource a dashed one, so the kind reads even when the narrow table leaves out Mode. The Plan column shows what the loaded plan does to the resource, and it is left out when no plan is loaded. The address starts with the namespace, so there is no column for it. Provider is the provider instance that the resource uses, such as `aws` or `aws.west`. The graph and the table colour each instance, in the tile of a card and in the dot in front of the name: the instances of one estate get different colours, up to twelve of them, and the same instance has the same colour in both. A narrow table leaves out Mode and Rev. Click a heading to sort by it, and click it again to reverse the order. The up and down arrows move the selection. The filters apply to the table as they do to the graph, and the filter box also matches the action and the mode.
 
 *Figure: The Table view of the same estate: one row for each resource. The statuses show gone for api.cache.config and orphan for edge.balancer.reload.*
 
